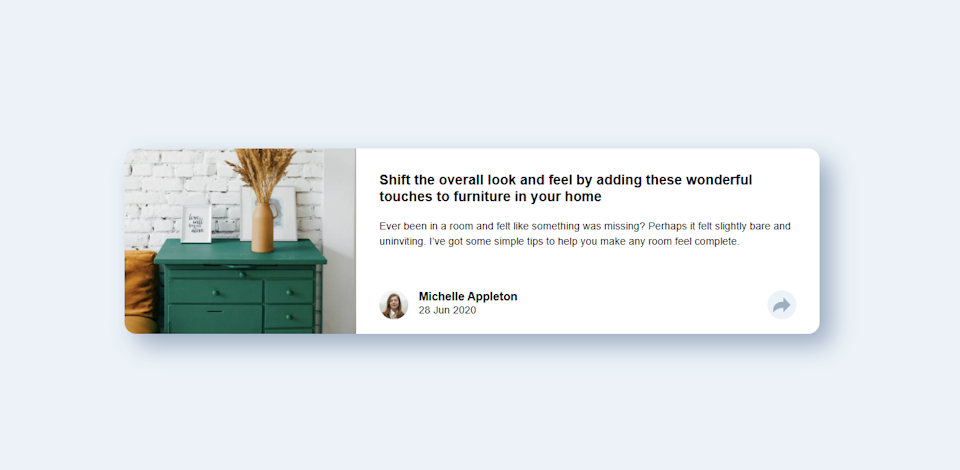
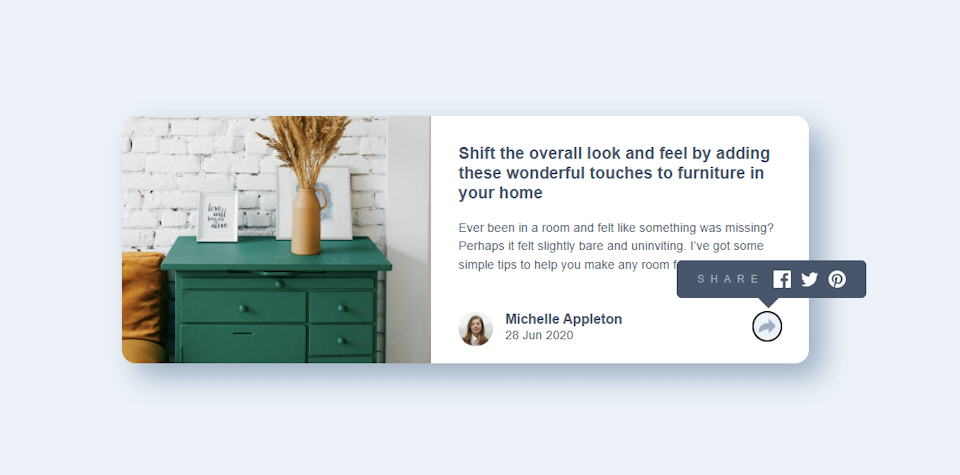
Completed the implementation in CSS & HTML

Changed region(s): [[0.125, 0.2383, 0.9062, 0.834], [0.125, 0.3574, 0.1562, 0.3872]]

diff --git a/src/styles/main.css b/src/styles/main.css
@@ -15,6 +15,7 @@
 body {
     font-family: Manrope sans, sans-serif;
     font-size: 1em;
+    color: var(--dark-grayish-blue);
     min-height: 100vh;
     display: flex;
     align-items: center;
@@ -24,6 +25,14 @@ body {
     h1 {
         display: none;
     }
+}
+
+button:active,
+button:focus,
+button:hover,
+button {
+    border: none;
+    background-color: transparent;
 }
 
 .article {
@@ -69,7 +78,8 @@ body {
         display: flex;
         flex-direction: row;
         gap: 0.9em;
-        margin: 1em 2em 1.2em 2em;
+        padding: 1em 2em 1.2em 2em;
+        anchor-name: --author-anchor;
 
         .avatar {
             width: 2.5em;
@@ -108,65 +118,107 @@ body {
                 padding: 0.5em;
             }
         }
+    }
+}
 
-        &.show-socials {
-            display: none;
-        }
+#socials-popover {
+    align-items: center;
+    gap: 0.65em;
+    color: var(--grayish-blue);
+    background-color: var(--dark-grayish-blue);
+    padding: 1.2em 2em 1.5em 2em;
+    position-anchor: --author-anchor;
+
+    .label {
+        letter-spacing: 0.6em;
     }
 
-    #socials {
-        grid-area: socials;
-        display: none;
+    div:last-child {
+        align-self: end;
+    }
+
+    .share {
+        display: flex;
         align-items: center;
-        gap: 0.65em;
-        color: var(--light-grayish-blue);
-        background-color: var(--dark-grayish-blue);
-        padding: 1em 2em 1.2em 2em;
+        justify-content: end;
+        cursor: pointer;
 
-        .label {
-            letter-spacing: 0.6em;
-        }
-
-        .share {
-            flex-grow: 1;
+        svg {
+            border-radius: 50%;
             display: flex;
             align-items: center;
             justify-content: end;
-            cursor: pointer;
-
-            svg {
-                border-radius: 50%;
-                display: flex;
-                align-items: center;
-                justify-content: end;
-                width: 2.5em;
-                height: 2.5em;
-                --share-arrow: var(--light-grayish-blue);
-                background-color: var(--grayish-blue);
-                padding: 0.6em;
-            }
+            width: 2.5em;
+            height: 2.5em;
+            --share-arrow: var(--light-grayish-blue);
+            background-color: var(--grayish-blue);
+            padding: 0.6em;
         }
+    }
+}
 
-        &.show-socials {
-            display: flex;
-        }
+@media screen and (width < 41em) {
+    article.article {
+        max-width: 41em;
+    }
+
+    #socials-popover {
+        top: anchor(top);
+        left: anchor(left);
+        right: anchor(right);
+        bottom: anchor(bottom);
+    }
+
+    #socials-popover:popover-open {
+        display: grid;
+        grid-template-columns: 3fr 1fr 1fr 1fr 5fr;
+        border: none;
+        border-bottom-right-radius: 1em;
+        border-bottom-left-radius: 1em;
     }
 }
 
 @media screen and (min-width: 41em) {
     article.article {
-        max-width: 41em;
-    }
-}
-
-@media screen and (min-width: 60em) {
-    article.article {
-        max-width: 60em;
-        grid-template-rows: 1fr auto auto;
-        grid-template-columns: 1fr 2fr;
+        position: relative;
+        max-width: 50em;
+        grid-template-rows: 1fr auto;
+        grid-template-columns: 22.5em 2fr;
         grid-template-areas:
                 "image advice"
-                "image author"
-                "image socials";
+                "image author";
+    }
+
+    #socials-popover::before {
+        content: '';
+        position: absolute;
+        width: 0;
+        height: 0;
+        top: 3.6em;
+        left: 43%;
+        border-left: 1em solid transparent;
+        border-right: 1em solid transparent;
+        border-top: 1em solid var(--dark-grayish-blue);
+    }
+
+    #socials-popover {
+        gap: 1em;
+        font-size: 0.75rem;
+        inset: auto;
+        left: anchor(65%);
+        bottom: anchor(top);
+        border-radius: 0.5em;
+        padding: 1em 2em;
+        overflow: visible;
+
+        & .share {
+            display: none;
+        }
+    }
+
+    #socials-popover:popover-open {
+        display: grid;
+        grid-template-columns: repeat(4, auto);
+        border: none;
     }
 }

diff --git a/index.html b/index.html
@@ -34,24 +34,24 @@
                 <p>Michelle Appleton</p>
                 <time>28 Jun 2020</time>
             </address>
-            <div class="share" id="show-share">
+            <button type="button" class="share" id="show-share" popovertarget="socials-popover">
                 <svg width="100%" height="100%" viewBox="0 0 15 13">
                     <use href="images/icon-share.svg"></use>
                 </svg>
-            </div>
-        </section>
-        <section id="socials">
-            <div class="label">SHARE</div>
-            <img src="images/icon-facebook.svg" alt="Facebook">
-            <img src="images/icon-twitter.svg" alt="Twitter">
-            <img src="images/icon-pinterest.svg" alt="Pinterest">
-            <div class="share" id="hide-share">
-                <svg width="100%" height="100%" viewBox="0 0 15 13">
-                    <use href="images/icon-share.svg"></use>
-                </svg>
-            </div>
+            </button>
         </section>
     </article>
 </main>
+<section id="socials-popover" popover>
+    <div class="label">SHARE</div>
+    <img src="images/icon-facebook.svg" alt="Facebook">
+    <img src="images/icon-twitter.svg" alt="Twitter">
+    <img src="images/icon-pinterest.svg" alt="Pinterest">
+    <button type="button" class="share" popovertarget="socials-popover" popovertargetaction="hide">
+        <svg width="100%" height="100%" viewBox="0 0 15 13">
+            <use href="images/icon-share.svg"></use>
+        </svg>
+    </button>
+</section>
 </body>
 </html>

diff --git a/src/index.ts b/src/index.ts
@@ -1,15 +1,1 @@
 import "./styles/main.css"
-
-const author = document.querySelector("#author")
-const socials = document.querySelector("#socials")
-const showShare = document.querySelector("#show-share")
-const hideShare = document.querySelector("#hide-share")
-if (showShare && hideShare && socials && author) {
-    const toggle = () => {
-        socials.classList.toggle("show-socials")
-        author.classList.toggle("show-socials")
-    }
-
-    showShare.addEventListener("click", toggle)
-    hideShare.addEventListener("click", toggle)
-}

diff --git a/README.md b/README.md
@@ -1,11 +1,10 @@
-# Frontend Mentor - Article preview component solution
+# Article Preview component
 
 This is a solution to the [Article preview component challenge on Frontend Mentor](https://www.frontendmentor.io/challenges/article-preview-component-dYBN_pYFT). Frontend Mentor challenges help you improve your coding skills by building realistic projects. 
 
 ## Table of contents
 
 - [Overview](#overview)
-  - [The challenge](#the-challenge)
   - [Screenshot](#screenshot)
   - [Links](#links)
 - [My process](#my-process)
@@ -15,35 +14,25 @@ This is a solution to the [Article preview component challenge on Frontend Mento
   - [Useful resources](#useful-resources)
   - [AI Collaboration](#ai-collaboration)
 - [Author](#author)
-- [Acknowledgments](#acknowledgments)
 
 **Note: Delete this note and update the table of contents based on what sections you keep.**
 
 ## Overview
 
-### The challenge
-
-Users should be able to:
-
-- View the optimal layout for the component depending on their device's screen size
-- See the social media share links when they click the share icon
-
 ### Screenshot
 
-![](./screenshot.jpg)
+Mobile view with share overlay visible.
 
-Add a screenshot of your solution. The easiest way to do this is to use Firefox to view your project, right-click the page and select "Take a Screenshot". You can choose either a full-height screenshot or a cropped one based on how long the page is. If it's very long, it might be best to crop it.
+![](./screenshot-mobile.png)
 
-Alternatively, you can use a tool like [FireShot](https://getfireshot.com/) to take the screenshot. FireShot has a free option, so you don't need to purchase it. 
+Desktop view with share popup visible.
 
-Then crop/optimize/edit your image however you like, add it to your project, and update the file path in the image above.
-
-**Note: Delete this note and the paragraphs above when you add your screenshot. If you prefer not to add a screenshot, feel free to remove this entire section.**
+![](screenshot-desktop.png)
 
 ### Links
 
-- Solution URL: [Add solution URL here](https://your-solution-url.com)
-- Live Site URL: [Add live site URL here](https://your-live-site-url.com)
+- Solution URL: 
+- Live Site URL: 
 
 ## My process
 
@@ -51,72 +40,50 @@ Then crop/optimize/edit your image however you like, add it to your project, and
 
 - Semantic HTML5 markup
 - CSS custom properties
-- Flexbox
-- CSS Grid
+- Flexbox & CSS Grid
 - Mobile-first workflow
-- [React](https://reactjs.org/) - JS library
-- [Next.js](https://nextjs.org/) - React framework
-- [Styled Components](https://styled-components.com/) - For styles
-
-**Note: These are just examples. Delete this note and replace the list above with your own choices**
+- [Vite](https://vite.dev/)
+- [LightningCSS](https://lightningcss.dev/)
 
 ### What I learned
 
-Use this section to recap over some of your major learnings while working through this project. Writing these out and providing code samples of areas you want to highlight is a great way to reinforce your own knowledge.
+My initial implementation used JavaScript for wiring up button clicks and positioning the overlays 
+of the share menu. But then, I discovered the `popover` and `anchor` APIs (which have been widely 
+supported for two years at this time), and cghanged to using that. This meant that I was able to 
+completely implement the UI in `html` and `css`!
 
-To see how you can add code snippets, see below:
+On my journey towards a more disciplined and value-driven semantic HTML, I tried to think from the
+perspective of a screen reader about the markup: using `articles` for sections that could be stand-alone
+and `section`s for discreet subsections of copntent.
 
 ```html
-<h1>Some HTML code I'm proud of</h1>
+<main>
+  <article class="article">
+    <picture>
+      <img src="images/drawers.jpg" alt="Drawers">
+    </picture>
+    <section class="advice">
+      <h2>
+        <!-- Other markup and content -->
 ```
+I made use of both the `popover` and `anchor` CSS APIs, despite them both being relatively new&mdash;last
+two years as of this writing&mdash;this was also a learning-curve for me and I will make use of them
+again.
+
 ```css
 .proud-of-this-css {
   color: papayawhip;
 }
 ```
-```js
-const proudOfThisFunc = () => {
-  console.log('🎉')
-}
-```
-
-If you want more help with writing markdown, we'd recommend checking out [The Markdown Guide](https://www.markdownguide.org/) to learn more.
-
-**Note: Delete this note and the content within this section and replace with your own learnings.**
 
 ### Continued development
 
-Use this section to outline areas that you want to continue focusing on in future projects. These could be concepts you're still not completely comfortable with or techniques you found useful that you want to refine and perfect.
-
-**Note: Delete this note and the content within this section and replace with your own plans for continued development.**
-
-### Useful resources
-
-- [Example resource 1](https://www.example.com) - This helped me for XYZ reason. I really liked this pattern and will use it going forward.
-- [Example resource 2](https://www.example.com) - This is an amazing article which helped me finally understand XYZ. I'd recommend it to anyone still learning this concept.
-
-**Note: Delete this note and replace the list above with resources that helped you during the challenge. These could come in handy for anyone viewing your solution or for yourself when you look back on this project in the future.**
+- For the `popover` and `anchor` tags I watched Kevin Powell's excellent [CSS Popover + Anchor Positioning is Magical](https://youtu.be/DNXEORSk4GU).
 
 ### AI Collaboration
 
-Describe how you used AI tools (if any) during this project. This helps demonstrate your ability to work effectively with AI assistants.
-
-- What tools did you use (e.g., ChatGPT, Claude, GitHub Copilot)?
-- How did you use them (e.g., debugging, generating boilerplate, brainstorming solutions)?
-- What worked well? What didn't?
-
-**Note: Delete this note and the content above if you didn't use AI, or replace with your own experience.**
+I did not make any use of AIs beyond auto-complete for this project. 
 
 ## Author
 
-- Website - [Add your name here](https://www.your-site.com)
-- Frontend Mentor - [@yourusername](https://www.frontendmentor.io/profile/yourusername)
-- Twitter - [@yourusername](https://www.twitter.com/yourusername)
-
-**Note: Delete this note and add/remove/edit lines above based on what links you'd like to share.**
-
-## Acknowledgments
-
-This is where you can give a hat tip to anyone who helped you out on this project. Perhaps you worked in a team or got some inspiration from someone else's solution. This is the perfect place to give them some credit.
-
-**Note: Delete this note and edit this section's content as necessary. If you completed this challenge by yourself, feel free to delete this section entirely.**
+- Frontend Mentor - [Francis Judge](https://www.frontendmentor.io/profile/FJSolutions)
